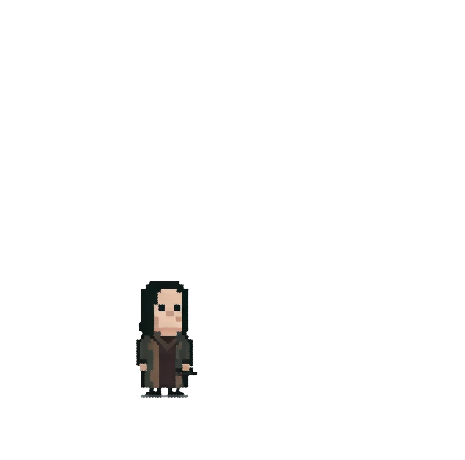
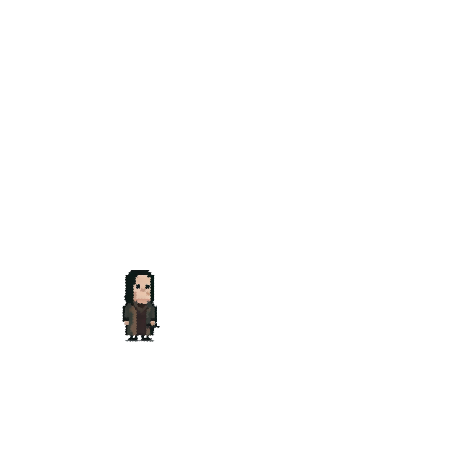
Пофиксила передвижение

Changed region(s): [[0.2409, 0.5783, 0.4215, 0.8826]]

diff --git a/game/game/Game1.cs b/game/game/Game1.cs
@@ -83,7 +83,7 @@ namespace game
 
     public class GameCycleView : Game, IGameplayView
     {
-        public GraphicsDeviceManager _graphics;
+        private GraphicsDeviceManager _graphics;
         private SpriteBatch _spriteBatch;
 
         public event EventHandler CycleFinished = delegate { };
@@ -117,6 +117,7 @@ namespace game
 
         protected override void Update(GameTime gameTime)
         {
+            base.Update(gameTime);
             var keys = Keyboard.GetState().GetPressedKeys();
             if (keys.Length > 0)
             {
@@ -173,18 +174,18 @@ namespace game
                             break;
                         }
                 }
-            }
-            base.Update(gameTime);
+            }          
             CycleFinished.Invoke(this, new EventArgs());
         }
 
         protected override void Draw(GameTime gameTime)
         {
             GraphicsDevice.Clear(Color.CornflowerBlue);
-            base.Draw(gameTime);
+
             _spriteBatch.Begin();
             _spriteBatch.Draw(_playerImage, _playerPos, Color.White);
             _spriteBatch.End();
+            base.Draw(gameTime);
         }
     }
 
@@ -192,39 +193,23 @@ namespace game
     {
         public event EventHandler<GameplayEventArgs> Updated = delegate { };
 
-        private Vector2 _pos = new Vector2(300, 300);
+        private Vector2 _pos = new Vector2(0, 0);
 
         public void Update()
         {
-            _pos += new Vector2(1, 0);
             Updated.Invoke(this, new GameplayEventArgs { PlayerPos = _pos });
         }
 
         public void MovePlayer(IGameplayModel.Direction dir)
         {
-            switch (dir)
-            {
-                case IGameplayModel.Direction.forward:
-                    {
-                        _pos += new Vector2(0, -1);
-                        break;
-                    }
-                case IGameplayModel.Direction.backward:
-                    {
-                        _pos += new Vector2(0, 1);
-                        break;
-                    }
-                case IGameplayModel.Direction.right:
-                    {
-                        _pos += new Vector2(1, 0);
-                        break;
-                    }
-                case IGameplayModel.Direction.left:
-                    {
-                        _pos += new Vector2(-1, 0);
-                        break;
-                    }
-            }
+            if( dir == IGameplayModel.Direction.forward)
+                _pos += new Vector2(0, -1);
+            if (dir == IGameplayModel.Direction.backward)
+                _pos += new Vector2(0, 1);
+            if (dir == IGameplayModel.Direction.right)
+                _pos += new Vector2(1, 0);
+            if (dir == IGameplayModel.Direction.left)
+                _pos += new Vector2(-1, 0);
         }
     }
 }

diff --git a/game/game/Program.cs b/game/game/Program.cs
@@ -5,13 +5,10 @@ public static class Program
 {
     [STAThread]
     static void Main()
-    {
-        //using (var game = new GameCycleView())
-        //var game = new GameCycleView();
-        //game.Run();         
-        GameplayPresenter g = new GameplayPresenter(
+    {           
+        GameplayPresenter game = new GameplayPresenter(
           new GameCycleView(), new GameCycle()
         );
-        g.LaunchGame();
+        game.LaunchGame();
     }
 }
